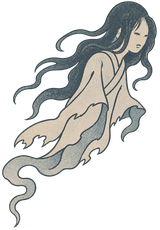
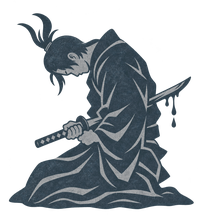
ADD: Seppuku mark (kneeling samurai) at the bottom of the card; card effects follow their card when it attacks [ui/StatusOverlay, ui/BoardView, images/fx/seppuku.png]

diff --git a/src/main/java/fr/onishintan/ui/StatusOverlay.java b/src/main/java/fr/onishintan/ui/StatusOverlay.java
@@ -29,6 +29,7 @@ final class StatusOverlay {
     private final Runnable shake;
     private final Set<List<Object>> shown = new HashSet<>();          // (image, minion) pairs already dropped in
     private final Map<List<Object>, Node> gates = new HashMap<>();
+    private Group on;   // the card the effects being added belong to
 
     /** live: the board layer to draw on; shake: the small screen shake played when a gate lands. */
     StatusOverlay(Pane live, Runnable shake) {
@@ -42,6 +43,16 @@ final class StatusOverlay {
         gates.clear();
     }
 
+
+    /** The effects added next ride with this card: their group follows its position and layer, so they lunge with it when it attacks. */
+    void follow(Node card) {
+        on = new Group();
+        on.translateXProperty().bind(card.translateXProperty());
+        on.translateYProperty().bind(card.translateYProperty());
+        on.viewOrderProperty().bind(card.viewOrderProperty());
+        live.getChildren().add(on);
+    }
+
     /** Shinobi: two ink clouds drift slowly in opposite directions over a hidden card, on top of its darkening. */
     void shinobi(double x, double y) {
         for (int k = 0; k < 2; k++) {
@@ -50,39 +61,29 @@ final class StatusOverlay {
             c.setPreserveRatio(true);
             c.setOpacity(0.9);
             add(c, x + (k == 0 ? -10 : 20), y + (k == 0 ? 20 : 95));
-            double dir = k == 0 ? 1 : -1;
-            TranslateTransition t = new TranslateTransition(Duration.seconds(3 + Math.random() * 2), c);
-            t.setFromX(-10 * dir);
-            t.setToX(10 * dir);
-            t.setAutoReverse(true);
-            t.setCycleCount(Animation.INDEFINITE);
-            t.setInterpolator(Interpolator.EASE_BOTH);
-            t.playFrom(Duration.seconds(Math.random() * 3));
-            c.sceneProperty().addListener((o, was, now) -> { if (now == null) t.stop(); });
+            sway(c, k == 0 ? 1 : -1, 10);
         }
     }
 
-    /** Seppuku: a tiny ghost drifts around the card, turning to face the way it floats. */
+    /** Seppuku: a kneeling samurai, still, at the bottom middle of the card between its ATK and HP. */
     void seppuku(double x, double y) {
-        ImageView g = BoardView.image("/images/fx/seppuku.png");
-        g.setFitWidth(34);
-        g.setPreserveRatio(true);
-        g.setOpacity(0.85);
-        add(g, x + 40, y + 57);
-        drift(g);
+        ImageView s = BoardView.image("/images/fx/seppuku.png");
+        s.setFitWidth(26);
+        s.setPreserveRatio(true);
+        s.setOpacity(0.8);
+        add(s, x + BoardView.MINION_W / 2 - 13, y + 128);
     }
 
-    /** Floats to a random point around the card, then picks the next one; stops once the card has left the board. */
-    private static void drift(ImageView g) {
-        if (g.getParent() == null) return;
-        double tx = Math.random() * 120 - 60, ty = Math.random() * 140 - 70;
-        g.setScaleX(tx < g.getTranslateX() ? -1 : 1);   // the image faces right: flip it when heading left
-        TranslateTransition t = new TranslateTransition(Duration.seconds(1.5 + Math.random()), g);
-        t.setToX(tx);
-        t.setToY(ty);
+    /** Drifts a node `dist` px left and right forever, 3 to 5 s each way, from a random point; stops once it leaves the screen. */
+    private static void sway(Node n, double dir, double dist) {
+        TranslateTransition t = new TranslateTransition(Duration.seconds(3 + Math.random() * 2), n);
+        t.setFromX(-dist * dir);
+        t.setToX(dist * dir);
+        t.setAutoReverse(true);
+        t.setCycleCount(Animation.INDEFINITE);
         t.setInterpolator(Interpolator.EASE_BOTH);
-        t.setOnFinished(e -> drift(g));
-        t.play();
+        t.playFrom(Duration.seconds(Math.random() * 3));
+        n.sceneProperty().addListener((o, was, now) -> { if (now == null) t.stop(); });
     }
 
     /** Passive: a war banner planted over the card's top-left corner; the cloth ripples from the pole to the tip. */
@@ -149,6 +150,6 @@ final class StatusOverlay {
     private void add(Node n, double x, double y) {
         n.setMouseTransparent(true);
         n.relocate(x, y);
-        live.getChildren().add(n);
+        if (on != null) on.getChildren().add(n); else live.getChildren().add(n);
     }
 }

diff --git a/src/main/java/fr/onishintan/ui/BoardView.java b/src/main/java/fr/onishintan/ui/BoardView.java
@@ -76,6 +76,14 @@ public class BoardView extends Pane {
     private final Pane live = new Pane();
     private final StatusOverlay status = new StatusOverlay(live, () -> impact(0, true));
     private KiBarView ki;
+    private HandView hand;
+    private boolean dealt;   // the hand stays hidden until the opening deal
+    /** Opening hand: deals the bottom player's cards in from their deck. */
+    public void dealHand() {
+        dealt = true;
+        hand.setVisible(true);
+        hand.deal();
+    }
     private Player kiOwner;   // who the Ki bar showed at the last redraw, and how much Ki they had
     private int kiBefore;
     private static final Image SWITCH_ON = new Image(BoardView.class.getResourceAsStream("/images/hud/end-turn.png")),
@@ -150,7 +158,8 @@ public class BoardView extends Pane {
         kiBefore = you.getKi();
         deck(you, DECK_X, DECK_Y);
         deck(enemy, 182, 239);
-        live.getChildren().add(new HandView(you, (card, slot) -> { onPlay.accept(card, slot); impact(card.getKiCost(), false); }, c -> onTrade.accept(c), this::previewCost));
+        live.getChildren().add(hand = new HandView(you, (card, slot) -> { onPlay.accept(card, slot); impact(card.getKiCost(), false); }, c -> onTrade.accept(c), this::previewCost));
+        hand.setVisible(dealt);
         enemyHand(enemy);
         if (enemy.getHero().isDead() || you.getHero().isDead()) gameOver(enemy.getHero().isDead());
     }
@@ -248,11 +257,11 @@ public class BoardView extends Pane {
     }
 
     /** Hotseat: a dark veil hides the table until the next player clicks, so nobody sees the other's hand (GDD). */
-    public void passTo(String name) {
+public void passTo(String name, Runnable onReady) {
         Label text = new Label("次の番\nPass to " + name + "\n\nclick when ready");
         text.setStyle("-fx-font-family: 'Yu Mincho'; -fx-font-size: 56; -fx-font-weight: bold; -fx-text-alignment: center; -fx-text-fill: #f3ede1;");
         StackPane veil = new StackPane(new Rectangle(W, H, Color.rgb(0, 0, 0, 0.95)), text);
-        veil.setOnMousePressed(e -> table.getChildren().remove(veil));
+        veil.setOnMousePressed(e -> { table.getChildren().remove(veil); onReady.run(); });
         table.getChildren().add(veil);
     }
 
@@ -317,6 +326,7 @@ public class BoardView extends Pane {
             if (minions.get(i).isHidden() && v.getEffect() == null) v.setEffect(new ColorAdjust(0, -0.4, -0.45, 0));
             readable(v, minions.get(i), x, y, i >= 4);
             place(v, x, y);
+            status.follow(v);
             if (minions.get(i).hasKeyword(Keyword.PASSIVE)) status.flag(minions.get(i), x, y);
             if (minions.get(i).hasTorii()) status.gate("torii", minions.get(i), x, y);
             if (minions.get(i).hasKeyword(Keyword.SHIRODU)) status.gate("shirodu", minions.get(i), x, y);
